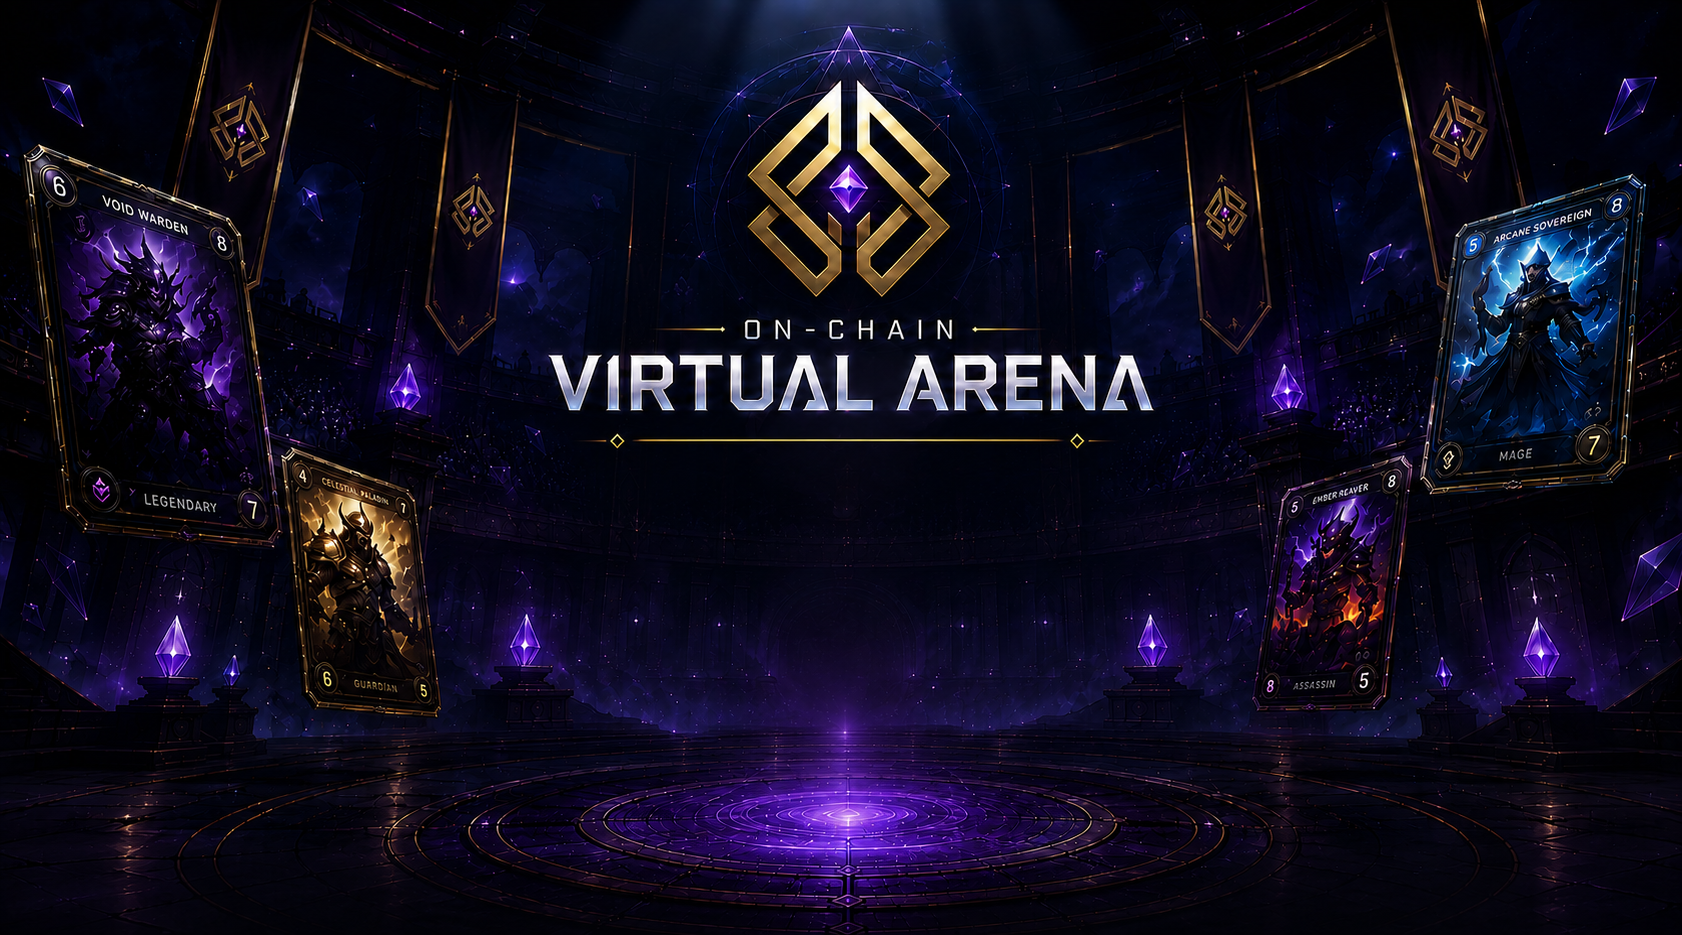
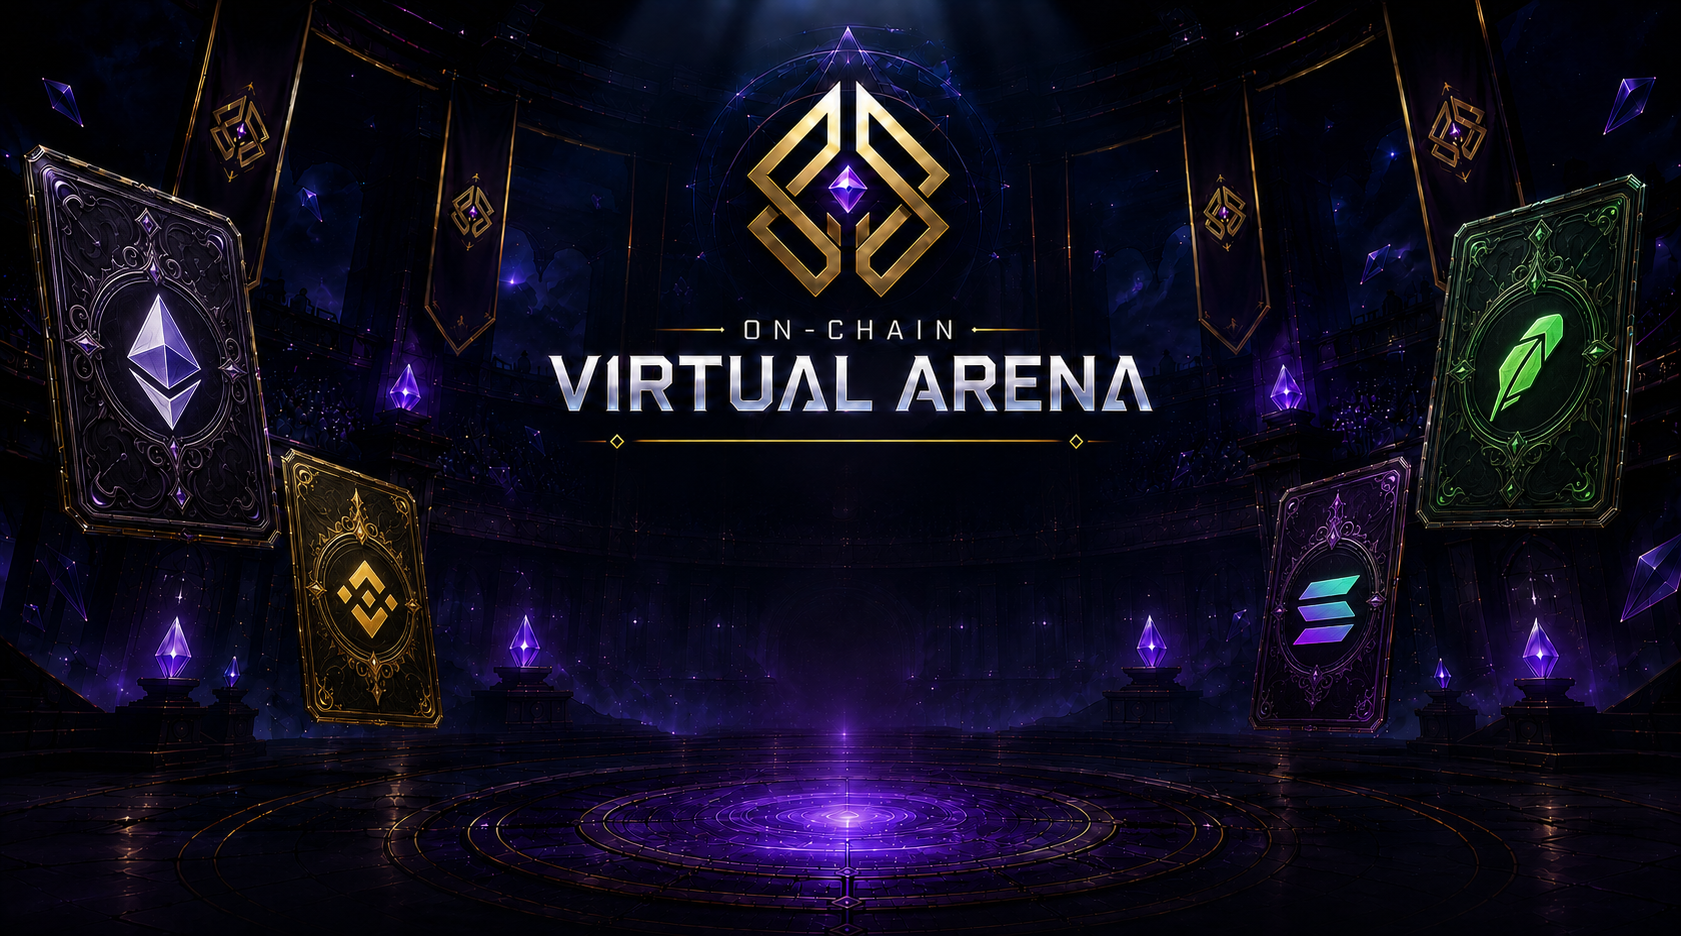
feat(hub): swap main-menu background image

diff --git a/src/App.tsx b/src/App.tsx
@@ -1435,7 +1435,7 @@ function Landing({
     <div style={{ position: 'fixed', inset: 0, overflow: 'hidden', background: '#07060f', fontFamily: F.body, color: C.textHi }}>
       {/* Clean arena artwork fills the screen (cover). */}
       <img
-        src="/hub-bg.png"
+        src="/hub-bg.png?v=2"
         alt=""
         draggable={false}
         style={{ position: 'absolute', inset: 0, width: '100%', height: '100%', objectFit: 'cover', objectPosition: 'center', userSelect: 'none', zIndex: 0 }}
